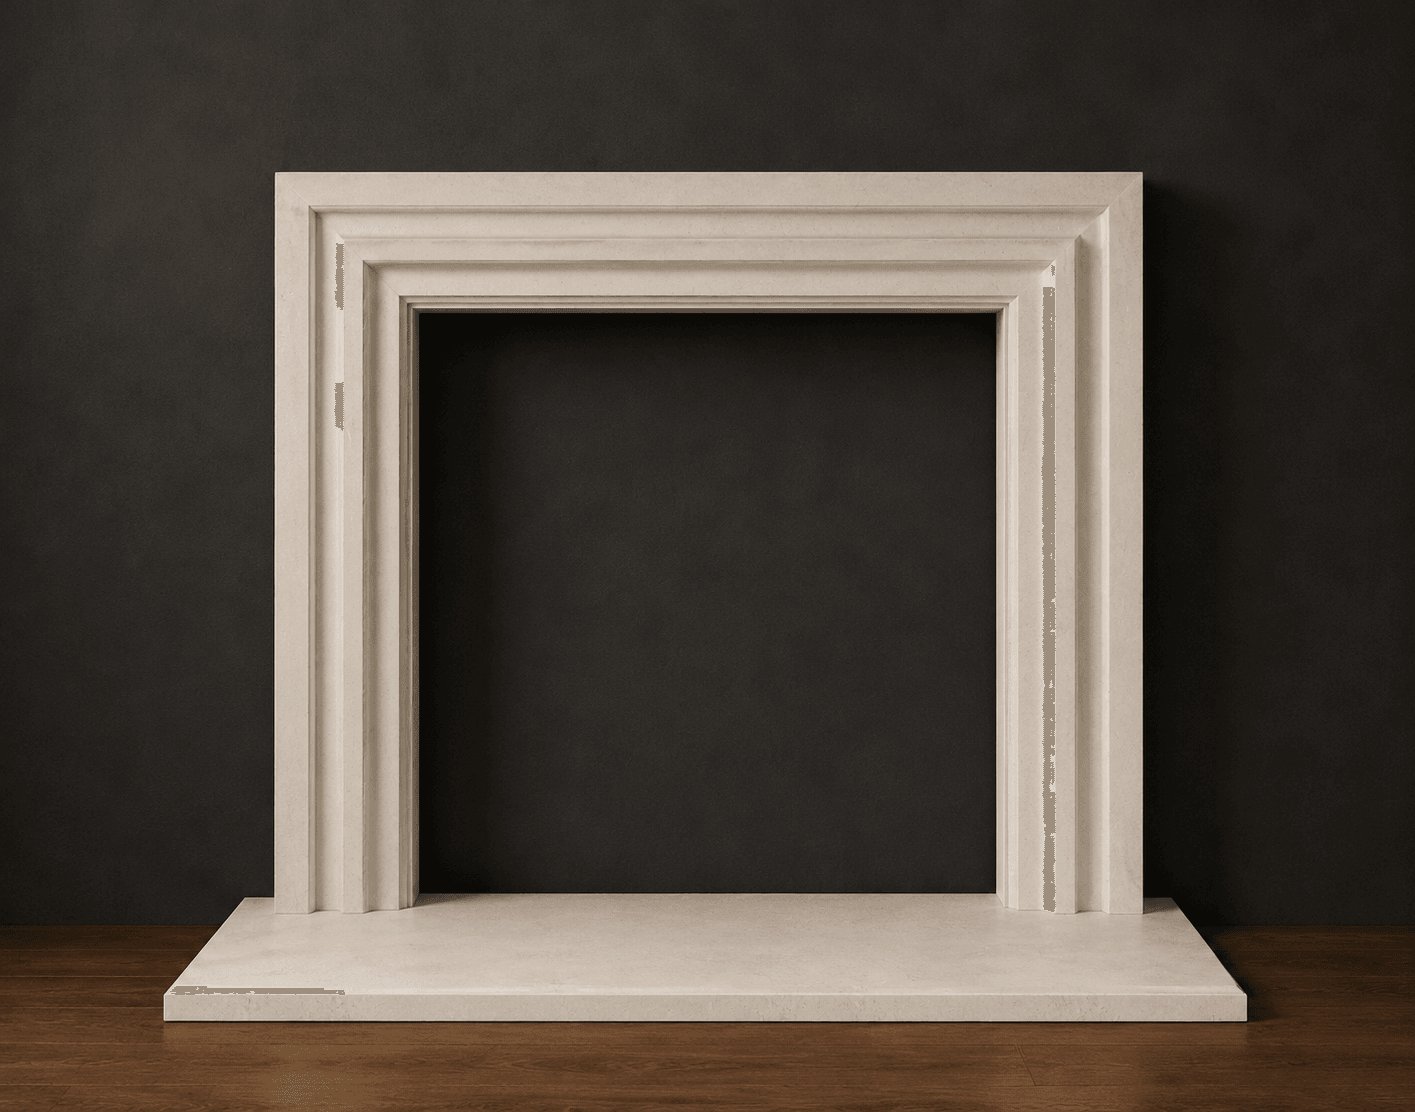
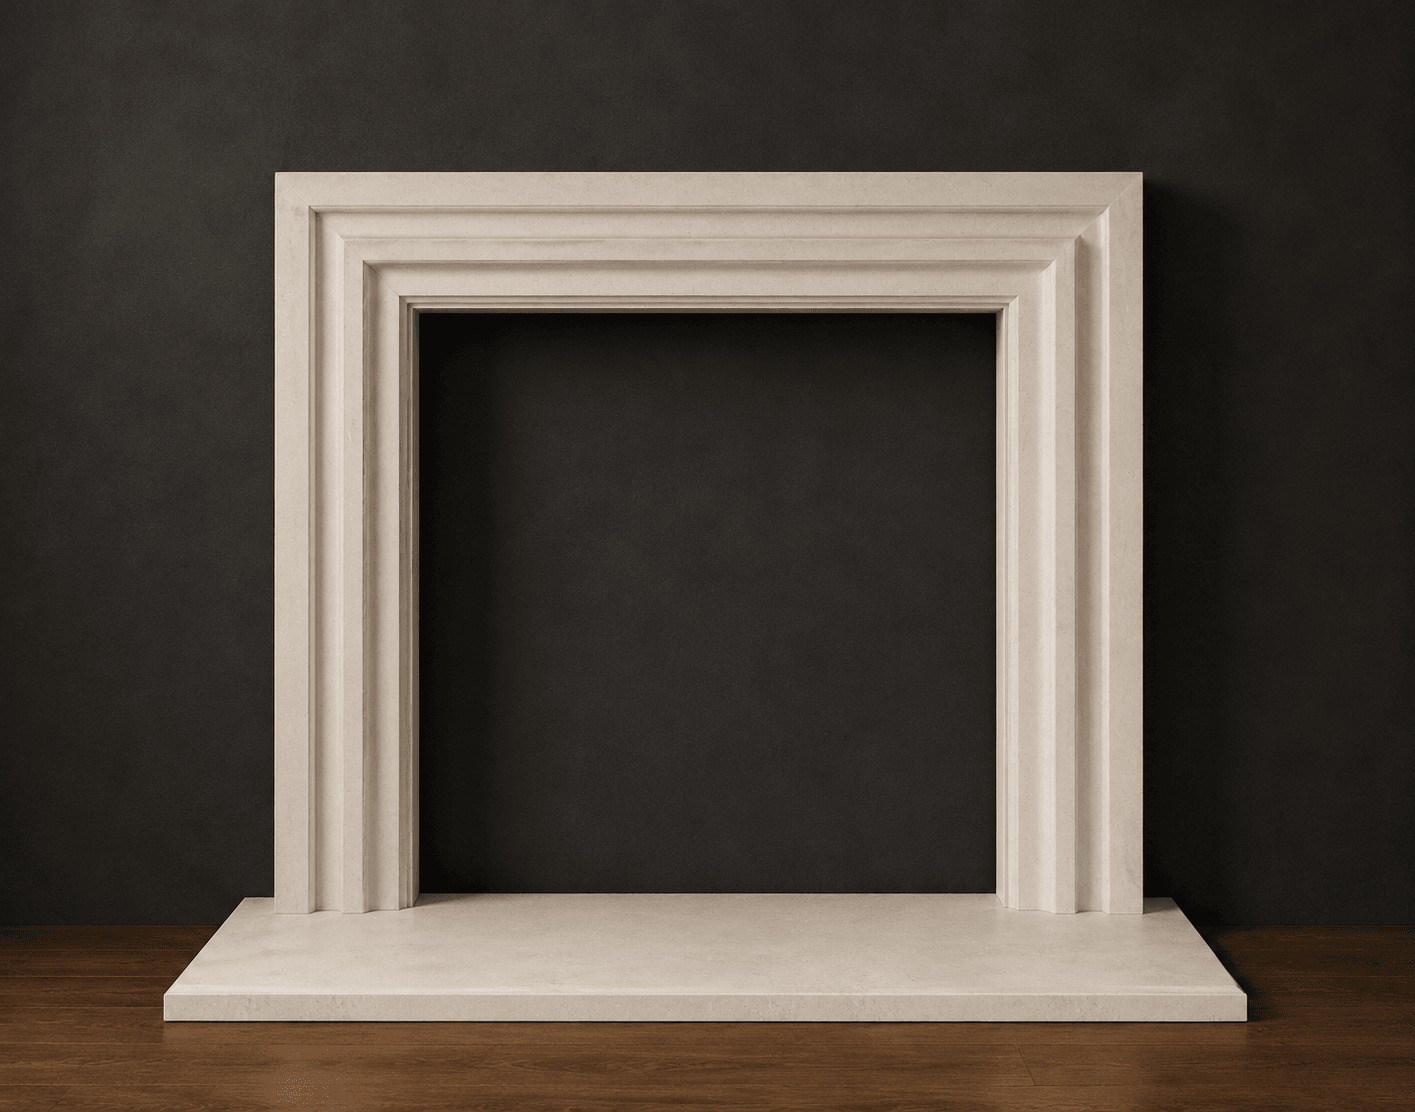
Fix splotchy Mingary photo from clean original; nav: All Mantels → Find Your Mantel

diff --git a/src/components/Header.tsx b/src/components/Header.tsx
@@ -42,7 +42,7 @@ const mantelsMenu: MegaMenuProps["columns"] = [
       { label: "Beams", href: "/mantels/beams", description: "Rustic and transitional wood mantels" },
       { label: "Hearths", href: "/mantels/hearths", description: "Stone and precast hearth pieces" },
       { label: "Colors & Finishes", href: "/mantels/colors-finishes", description: "Precast colors and surface textures" },
-      { label: "All Mantels", href: "/mantels", description: "Browse the full mantel collection" },
+      { label: "Find Your Mantel", href: "/mantels", description: "Browse the collection or search by fireplace size" },
     ],
   },
 ];